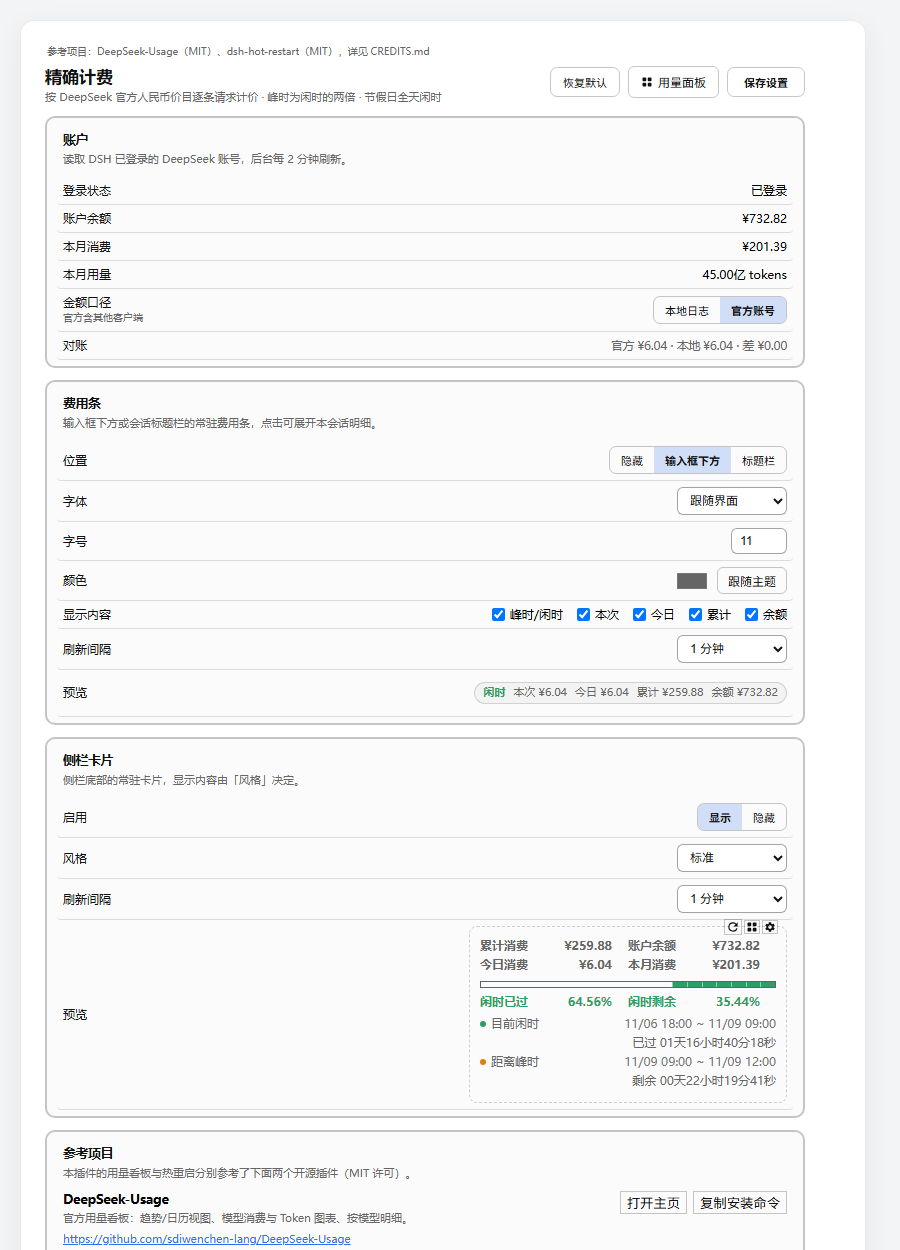
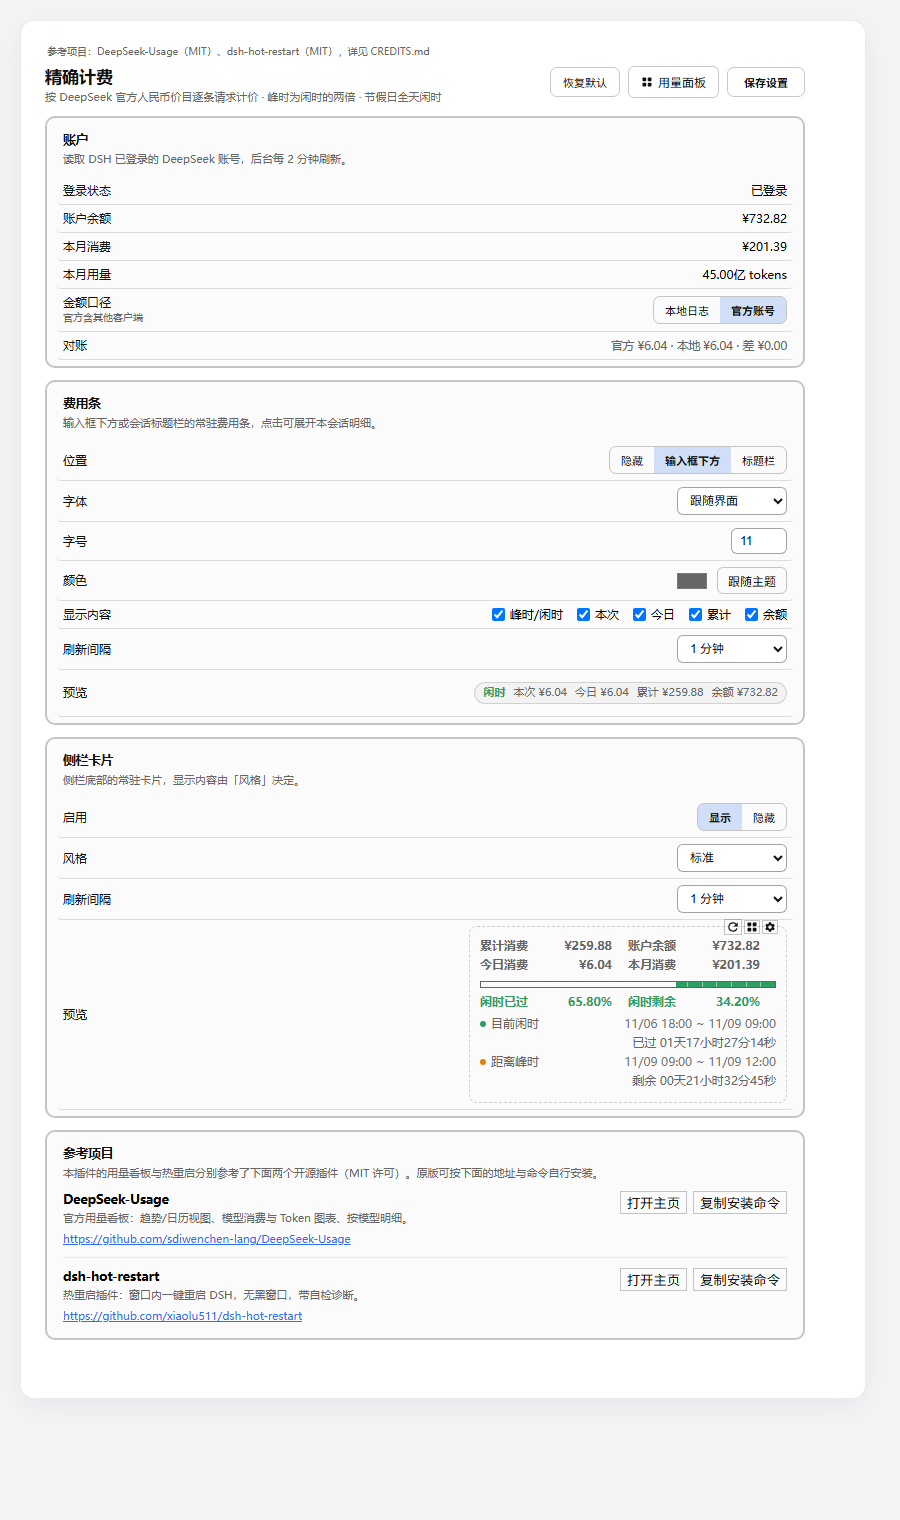
docs: update full README and settings page description, add install sentence, bump 0.2.1, refresh screenshots

Changed region(s): [[0.0311, 0.0312, 0.9022, 0.9984], [0.6844, 0.936, 0.8711, 0.9672]]

diff --git a/client.js b/client.js
@@ -3012,7 +3012,7 @@ function closeIcon(size = 14) {
               h('div', { style: { width: 300, padding: 8, borderRadius: 8, border: '1px dashed var(--dsw-alias-border-l1, rgba(0,0,0,.18))' } },
                 buildSidebar(draft, families, data, account, now, true))))),
 
-        h(Section, { title: '参考项目', desc: '本插件的用量看板与热重启分别参考了下面两个开源插件（MIT 许可）。' },
+        h(Section, { title: '参考项目', desc: '本插件的用量看板与热重启分别参考了下面两个开源插件（MIT 许可）。原版可按下面的地址与命令自行安装。' },
           h('div', { style: { display: 'flex', flexDirection: 'column', gap: 10, paddingBottom: 8 } },
             h('div', { style: { display: 'flex', alignItems: 'flex-start', justifyContent: 'space-between', gap: 12, flexWrap: 'wrap' } },
               h('div', { style: { minWidth: 0, flex: '1 1 240px' } },

diff --git a/README.md b/README.md
@@ -1,9 +1,9 @@
 # 精确计费（precise-billing）
 
-> 按 DeepSeek 官方人民币价目（含峰谷时段与法定节假日）**逐条请求**精确计算会话费用，并提供费用条、侧栏卡片、用量看板与一键热重启。
+> 按 DeepSeek 官方人民币价目（含峰谷时段与法定节假日）**逐条请求**精确计算会话费用，并提供费用条、侧栏卡片、用量看板（趋势 / 日历 / 年视图）与三段式热重启。
 
 - **作者**：Sheldon Jinn
-- **版本**：0.2.0
+- **版本**：0.2.1
 - **包名**：`@local/precise-billing`
 - **类型**：DSH 本地插件（Host + Client）
 
@@ -17,13 +17,13 @@
 
 ![用量日历](docs/calendar.png)
 
-**设置页**
-
-![设置页](docs/settings.png)
-
 **年视图（当前年份高亮）**
 
 ![年视图](docs/year.png)
+
+**设置页**
+
+![设置页](docs/settings.png)
 
 **热重启（三段式：警示 → 确认 → 执行）**
 
@@ -48,7 +48,7 @@
 
 ### 2. 费用条
 
-- 位置可选：输入框下方 / 会话标题栏 / 隐藏；
+- 位置可选：输入框下方 / 会话标题栏 / **隐藏**（选中隐藏后，下方设置项整体收起）；
 - 显示内容可勾选：峰时/闲时、本次、今日、累计、余额；
 - 字体、字号、颜色可调，支持跟随主题；
 - 点击费用条可展开本会话明细。
@@ -56,42 +56,49 @@
 ### 3. 侧栏卡片
 
 - 常驻侧栏底部，显示今日消费、累计消费、账户余额与峰谷进度；
-- 风格：标准 / 简约 / 紧凑 / 自定义；
-- 自定义可逐项控制 16 个显示项（顶部金额、进度条、百分比、时段明细）；
-- 右上角两个灰色图标：**热重启**、**用量看板**，再右侧是设置齿轮。
+- 风格：标准 / 简约 / 紧凑 / 自定义（自定义时逐项控制 16 个显示项）；
+- 右上角三个灰色图标：**热重启**、**用量看板**、**设置**。
 
 ### 4. 用量看板
 
-- **趋势**：统计卡（Token、请求、消费、余额）、各模型消费金额（趋势 / 综合）、各模型 Token 用量、API 请求次数曲线、各模型明细与环比；
-- 单日按小时、多日按天、超过 120 天自动按月聚合；
-- **日历**：日 / 周 / 月 / 年四种视图；每格显示 Token、消费、峰时/闲时金额；
-- 当前日期/周/月/年带红点与「今天/本周/本月/今年」标记；
-- 未选中的格子淡灰、悬停变亮；周行之间有分隔线与整行悬停；
-- 点击日期弹出详情（消费、峰时/闲时、请求、输入命中/未命中、缓存写入、输出、Token 合计、分模型）；
-- 年视图：每年一行，左侧汇总 + 右侧 12 个月柱状图（峰时/闲时堆叠颜色），悬停月份显示详情，可展开 12 个月卡片。
+**趋势**
 
-### 5. 一键热重启
+- 统计卡：Token、API 请求次数、消费金额、余额；
+- 各模型消费金额（趋势 / 综合）、各模型 Token 用量、API 请求次数曲线、各模型明细与环比；
+- 单日按小时、多日按天、超过 120 天自动按月聚合；单日横轴 24 小时全部标注。
+
+**日历（日 / 周 / 月 / 年）**
+
+- 每个格子显示 Token、消费、峰时/闲时金额；
+- **空格子**：淡灰背景 + 淡灰文字；
+- **有数据的非选中格子**：淡灰背景 + **保持原色**（黑字、橙峰时、绿闲时）；
+- **今天 / 本周 / 本月 / 今年**：蓝底高亮 + 红点与文字标记；
+- 鼠标悬停任意格子：淡蓝背景 + 蓝边框，文字恢复原色；
+- 点击格子弹出详情（消费、峰时/闲时、API 请求、输入命中/未命中、缓存写入、输出、Token 合计、分模型）；
+- **年视图**：每年一行，左侧 Token/消费/峰时/闲时汇总，右侧 12 个月柱状图（橙=峰时、绿=闲时堆叠，带基线与投影），悬停柱子弹出该月详情，可展开 12 个月份卡片；当前年份行整行淡蓝高亮并带「● 今年」。
+
+### 5. 热重启（自行实现，不依赖其他插件）
 
 - 侧栏卡片右上角刷新图标触发；
 - **三段式流程**：
-  1. 先检查是否有对话在运行：有则弹**橙色警示框**列出运行中的对话，用户可选择「继续重启」；
-  2. 再弹**红色确认框**，明确提示会中断进行中的操作（取消按钮为绿色实心白字）；
-  3. 确认后进入**执行中**弹窗（蓝色进度条 + 日志路径）；
-- 警示框使用 **2.5px 彩色实线边框（边框与 6px 光晕同步呼吸）**（橙色=有对话运行，红色=最终确认），标题与正文跟随边框同色；支持减少动态效果的系统设置；\n- 确认后由宿主侧助手完成「结束进程 → 自动重新拉起」，全程无黑窗口；
-- 重启前会做**环境快照**（`DSH_*` 与代理变量），保证重开后环境一致；
-- 每次重启写入日志 `%TEMP%\pb-restart-<时间戳>.log`，弹窗中可直接「收起并复制日志」拿到路径。
+  1. 先检查运行中的对话：有则弹**橙色警示框**列出对话标题，按钮为「取消（绿色实心白字）」「继续重启（橙色）」；
+  2. 再弹**红色确认框**：标题与正文与边框同为红色系，明确提示会中断进行中的操作；
+  3. 确认后进入**蓝色执行中**弹窗（进度条 + 日志路径，可「收起并复制日志」）。
+- 警示框边框 **3.5px 彩色实线**，并让**边框粗细（3.5↔4.5px）、边框颜色与 6px 光晕同步柔和呼吸**（2.6 秒一轮）；
+- 重启前做**环境快照**（`DSH_*` 与代理变量），重开后环境一致；
+- 助手交给 Explorer 派发，避免被 DSH 的 job object 连带结束，全程无黑窗；
+- 每次重启写入 `%TEMP%\pb-restart-<时间戳>.log`；接口带 15 秒冷却；
+- 遵循系统「减少动态效果」设置（关闭呼吸动画）。
 
 ### 6. 设置
 
-- 所有选项**自动保存**（600ms 防抖），保存后页面中央弹出✓提示；
-- 「恢复默认」立即保存默认值；
-- 默认刷新间隔统一为 **60 秒**；
-- 进度条关闭时，刻度线/游标/悬浮提示自动禁用；重新开启时自动恢复勾选；
-- 自定义显示项至少保留一个。
+- 所有选项**自动保存**（600ms 防抖），保存后在设置页中央弹出 ✓ 提示；
+- 「恢复默认」立即保存默认值；默认刷新间隔统一为 **60 秒**；
+- 「进度条」关闭时，刻度线/游标/悬浮提示自动禁用；重新开启时自动恢复勾选；
+- 自定义显示项至少保留一个；
+- 设置页底部「参考项目」提供两个原版插件的地址、主页按钮与复制安装命令。
 
 ## 安装
-
-本插件为本地插件，按 DSH 的本地 link 方式安装：
 
 ```bash
 dsh plugin --profile desktop add link:C:\Users\XXJ\Documents\deepseek-harness\default-workspace\_plugins\precise-billing
@@ -108,7 +115,7 @@ dsh plugin --profile desktop add link:C:\Users\XXJ\Documents\deepseek-harness\de
 
 ## 参考项目
 
-本插件的用量看板与热重启功能分别参考了下面两个开源插件（均为 MIT 许可），代码为独立实现，未逐行复制。
+本插件的用量看板与热重启分别参考了下面两个开源插件（均为 MIT 许可），代码为独立实现，未逐行复制。**原版可按下面的地址与命令自行安装。**
 
 ### DeepSeek-Usage
 
@@ -132,13 +139,21 @@ dsh plugin --profile desktop add link:C:\Users\XXJ\Documents\deepseek-harness\de
 
 ## 更新日志
 
+### 0.2.1
+
+- 热重启改为**三段式**：运行中对话警示 → 红色二次确认 → 蓝色执行中；
+- 取消按钮改为**绿色实心白字**；警示框标题/正文与边框同色；
+- 警示框边框加粗至 **3.5px**，边框粗细、颜色与 6px 光晕同步呼吸；
+- 日历规则细化：空格灰字、数据格灰底原色、选中格蓝底高亮；
+- 年视图当前年份整行高亮，月份柱状图分峰/闲颜色、悬停浮框、底部对齐；
+- 设置页新增「参考项目」区与说明；默认刷新间隔统一 60 秒；
+- 重写 README 并更新全部界面截图。
+
 ### 0.2.0
 
 - 新增：用量看板（趋势 + 日历日/周/月/年、模型图表、日期详情、年视图柱状图）；
-- 新增：两段式热重启确认、环境快照、预检与重启日志；
-- 新增：设置自动保存与提示；
-- 新增：参考项目说明与安装入口；
-- 调整：默认刷新间隔统一为 60 秒；按钮与图标样式统一。
+- 新增：热重启、环境快照、预检与重启日志；
+- 新增：设置自动保存与提示。
 
 ### 0.1.0
 
